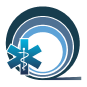
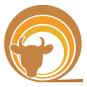
Update All

diff --git a/about.html b/about.html
@@ -3,7 +3,7 @@
 <head>
 <meta charset="UTF-8">
 <meta http-equiv="X-UA-Compatible" content="IE=edge">
-<!--<meta name="viewport" content="user-scalable=no, initial-scale=1, maximum-scale=1, minimum-scale=1, width=device-width, height=device-height, target-densitydpi=device-dpi" />-->
+
 <meta name="viewport" content="initial-scale=1 maximum-scale=1 user-scalable=0 minimal-ui" />
 <meta name="description" content="">
 <meta name="author" content="">
@@ -25,7 +25,7 @@
 </head>
 
 <body>
-<div class="loader"> <img src="img/logo_load.png" alt=""/>
+<div class="loader"> <img src="img/logo.png" alt=""/>
   <div class="spinner">
     <div class="rect1"></div>
     <div class="rect2"></div>
@@ -35,7 +35,7 @@
   </div>
 </div>
 <div class="row">
-  <h1 class="titulo"><img src="img/quickvet.png" alt="" width="60"/> QuickVet<sup>&reg;</sup></h1>
+  <h1 class="titulo"><img src="img/logo.png" alt="" width="60"/> QuickVet<sup>&reg;</sup></h1>
 </div>
 <div class="clearfix">&nbsp;</div>
 <div class="row wrapper">
@@ -55,11 +55,11 @@
   </div>
   <section id="terminos">
   <div class="clearfix">&nbsp;</div>
-    <h4 class="subtitulo">Acerca de QuickVet<sup>&reg;</sup> Premium App</h4>
+    <h4 class="subtitulo">Acerca de QuickVet<sup>&reg;</sup> App</h4>
     <div class="clearfix">&nbsp;</div>
     <p>Aplicación desarrollada para Edifarm y Compa&ntilde;&iacute;a. &copy; Todos los derechos reservados</p>
     <p><strong>Versi&oacute;n</strong></p>
-    <p>2.1.1</p>
+    <p>1.1.1</p>
   </section>
   <div class="clearfix">&nbsp;</div>
   <div class="clearfix">&nbsp;</div>
@@ -87,8 +87,8 @@
   <div id="owl-carousel" class="text-center">
     <div class="item"><a href="https://quickagro.edifarm.com.ec" class="external" target="_blank"><img src="img/quickagro.png" width="80" class="prod"/><br>
 QuickVet <sup>&reg;</sup></a></div>
-    <div class="item"><a href="https://quickvet.edifarm.com.ec" class="external" target="_blank"><img src="img/quickvet.png" width="80" class="prod"/><br>
-QuickVet <sup>&reg;</sup></a></div>
+    <div class="item"><a href="https://quickmed.edifarm.com.ec" class="external" target="_blank"><img src="img/quickmed.png" width="80" class="prod"/><br>
+QuickMed <sup>&reg;</sup></a></div>
 </div>
   
   

diff --git a/settings.html b/settings.html
@@ -3,7 +3,7 @@
 <head>
 <meta charset="UTF-8">
 <meta http-equiv="X-UA-Compatible" content="IE=edge">
-<!--<meta name="viewport" content="user-scalable=no, initial-scale=1, maximum-scale=1, minimum-scale=1, width=device-width, height=device-height, target-densitydpi=device-dpi" />-->
+
 <meta name="viewport" content="initial-scale=1 maximum-scale=1 user-scalable=0 minimal-ui" />
 <meta name="description" content="">
 <meta name="author" content="">
@@ -24,7 +24,7 @@
 </head>
 
 <body>
-<div class="loader"> <img src="img/logo_load.png" alt=""/>
+<div class="loader"> <img src="img/logo.png" alt=""/>
   <div class="spinner">
     <div class="rect1"></div>
     <div class="rect2"></div>
@@ -34,7 +34,7 @@
   </div>
 </div>
 <div class="row">
-  <h1 class="titulo"><img src="img/quickvet.png" alt="" width="60"/> QuickVet<sup>&reg;</sup></h1>
+  <h1 class="titulo"><img src="img/logo.png" alt="" width="60"/> QuickVet<sup>&reg;</sup></h1>
 </div>
 <div class="clearfix">&nbsp;</div>
 <div class="row wrapper">
@@ -49,7 +49,7 @@
       <h1><i class="fa fa-tags"></i></h1>
       <small>Productos</small></div>
       <div class="col-xs-3 item" id="btnEspecies" data-toggle="modal" data-target="#searchModal">
-      <h1><i class="fa fa-tags"></i></h1>
+      <h1><i class="fa fa-paw"></i></h1>
       <small>Especies</small></div>
   </div>
   <div class="clearfix">&nbsp;</div>

diff --git a/results.html b/results.html
@@ -3,7 +3,7 @@
 <head>
 <meta charset="UTF-8">
 <meta http-equiv="X-UA-Compatible" content="IE=edge">
-<!--<meta name="viewport" content="user-scalable=no, initial-scale=1, maximum-scale=1, minimum-scale=1, width=device-width, height=device-height, target-densitydpi=device-dpi" />-->
+
 <meta name="viewport" content="initial-scale=1 maximum-scale=1 user-scalable=0 minimal-ui" />
 <meta name="description" content="">
 <meta name="author" content="">
@@ -23,7 +23,7 @@
 </head>
 
 <body>
-<div class="loader"> <img src="img/logo_load.png" alt=""/>
+<div class="loader"> <img src="img/logo.png" alt=""/>
   <div class="spinner">
     <div class="rect1"></div>
     <div class="rect2"></div>
@@ -33,7 +33,7 @@
   </div>
 </div>
 <div class="row">
-  <h1 class="titulo"><img src="img/quickvet.png" alt="" width="60"/> QuickVet<sup>&reg;</sup></h1>
+  <h1 class="titulo"><img src="img/logo.png" alt="" width="60"/> QuickVet<sup>&reg;</sup></h1>
 </div>
 <div class="clearfix">&nbsp;</div>
 <div class="row wrapper">
@@ -48,7 +48,7 @@
       <h1><i class="fa fa-tags"></i></h1>
       <small>Productos</small></div>
       <div class="col-xs-3 item" id="btnEspecies" data-toggle="modal" data-target="#searchModal">
-      <h1><i class="fa fa-tags"></i></h1>
+      <h1><i class="fa fa-paw"></i></h1>
       <small>Especies</small></div>
   </div>
   <section id="resultados">

diff --git a/terms.html b/terms.html
@@ -3,7 +3,7 @@
 <head>
 <meta charset="UTF-8">
 <meta http-equiv="X-UA-Compatible" content="IE=edge">
-<!--<meta name="viewport" content="user-scalable=no, initial-scale=1, maximum-scale=1, minimum-scale=1, width=device-width, height=device-height, target-densitydpi=device-dpi" />-->
+
 <meta name="viewport" content="initial-scale=1 maximum-scale=1 user-scalable=0 minimal-ui" />
 <meta name="description" content="">
 <meta name="author" content="">
@@ -23,7 +23,7 @@
 </head>
 
 <body>
-<!-- <div class="loader"> <img src="img/logo_load.png" alt=""/>
+<!-- <div class="loader"> <img src="img/logo.png" alt=""/>
   <div class="spinner">
     <div class="rect1"></div>
     <div class="rect2"></div>
@@ -35,7 +35,7 @@
 
  -->
  <div class="row">
-  <h1 class="titulo"><img src="img/quickvet.png" alt="" width="60"/> QuickVet<sup>&reg;</sup></h1>
+  <h1 class="titulo"><img src="img/logo.png" alt="" width="60"/> QuickVet<sup>&reg;</sup></h1>
 </div>
 <div class="clearfix">&nbsp;</div>
 <div class="row wrapper">
@@ -50,7 +50,7 @@
       <h1><i class="fa fa-tags"></i></h1>
       <small>Productos</small></div>
       <div class="col-xs-3 item" id="btnEspecies" data-toggle="modal" data-target="#searchModal">
-      <h1><i class="fa fa-tags"></i></h1>
+      <h1><i class="fa fa-paw"></i></h1>
       <small>Especies</small></div>
   </div>
   <section id="terminos">

diff --git a/info.html b/info.html
@@ -3,7 +3,7 @@
 <head>
 <meta charset="UTF-8">
 <meta http-equiv="X-UA-Compatible" content="IE=edge">
-<!--<meta name="viewport" content="user-scalable=no, initial-scale=1, maximum-scale=1, minimum-scale=1, width=device-width, height=device-height, target-densitydpi=device-dpi" />-->
+
 <meta name="viewport" content="initial-scale=1 maximum-scale=1 user-scalable=0 minimal-ui" />
 <meta name="description" content="">
 <meta name="author" content="">
@@ -23,7 +23,7 @@
 </head>
 
 <body>
-<div class="loader"> <img src="img/logo_load.png" alt=""/>
+<div class="loader"> <img src="img/logo.png" alt=""/>
   <div class="spinner">
     <div class="rect1"></div>
     <div class="rect2"></div>
@@ -33,7 +33,7 @@
   </div>
 </div>
 <div class="row">
-  <h1 class="titulo"><img src="img/quickvet.png" alt="" width="60"/> QuickVet<sup>&reg;</sup></h1>
+  <h1 class="titulo"><img src="img/logo.png" alt="" width="60"/> QuickVet<sup>&reg;</sup></h1>
 </div>
 <div class="clearfix">&nbsp;</div>
 <div class="row wrapper">
@@ -406,7 +406,7 @@
         
 		});
 	/*Analytics*/
-	//window.ga.trackView('Info?doc='+doc);
+	window.ga.trackView('Info?doc='+doc);
 			
 	
 	</script>

diff --git a/home.html b/home.html
@@ -3,7 +3,7 @@
 <head>
 <meta charset="UTF-8">
 <meta http-equiv="X-UA-Compatible" content="IE=edge">
-<!--<meta name="viewport" content="user-scalable=no, initial-scale=1, maximum-scale=1, minimum-scale=1, width=device-width, height=device-height, target-densitydpi=device-dpi" />-->
+
 <meta name="viewport" content="initial-scale=1 maximum-scale=1 user-scalable=0 minimal-ui" />
 <meta name="description" content="">
 <meta name="author" content="">
@@ -24,7 +24,7 @@
 </head>
 
 <body>
-<div class="loader"> <img src="img/logo_load.png" alt=""/>
+<div class="loader"> <img src="img/logo.png" alt=""/>
   <div class="spinner">
     <div class="rect1"></div>
     <div class="rect2"></div>
@@ -34,7 +34,7 @@
   </div>
 </div>
 <div class="row">
-  <h1 class="titulo"><img src="img/quickvet.png" alt="" width="60"/> QuickVet<sup>&reg;</sup></h1>
+  <h1 class="titulo"><img src="img/logo.png" alt="" width="60"/> QuickVet<sup>&reg;</sup></h1>
 </div>
 <div class="clearfix">&nbsp;</div>
 <div class="row wrapper">
@@ -223,6 +223,7 @@ function onDeviceReady() {
 			  });
 }
 	onDeviceReady();
+	
 </script>
 
 

diff --git a/index.html b/index.html
@@ -3,7 +3,7 @@
 <head>
 	<meta charset="UTF-8">
     <meta http-equiv="X-UA-Compatible" content="IE=edge">
-    <!--<meta name="viewport" content="user-scalable=no, initial-scale=1, maximum-scale=1, minimum-scale=1, width=device-width, height=device-height, target-densitydpi=device-dpi" />-->
+    
     <meta name="viewport" content="initial-scale=1 maximum-scale=1 user-scalable=0 minimal-ui" />
     <meta name="description" content="">
     <meta name="author" content="">
@@ -35,7 +35,7 @@
 
 
 <div class="row">
-<h1 class="titulo"><img src="img/quickvet.png" alt="" width="60"/> QuickVet<sup>&reg;</sup></h1>
+<h1 class="titulo"><img src="img/logo.png" alt="" width="60"/> QuickVet<sup>&reg;</sup></h1>
 </div>
 
 <div class="wrapper"> 
@@ -210,7 +210,7 @@
 		
 		
 	/*Analytics*/
-	//window.ga.trackView('Intro');
+	window.ga.trackView('Intro');
     });
     	
 		document.addEventListener("deviceready", onDeviceReady, false);
@@ -255,6 +255,7 @@ function onDeviceReady() {
 		//alert('final'+device.uuid);
 	
 }
+	
 		
     </script>
     

diff --git a/newuser.html b/newuser.html
@@ -3,7 +3,7 @@
 <head>
 <meta charset="UTF-8">
 <meta http-equiv="X-UA-Compatible" content="IE=edge">
-<!--<meta name="viewport" content="user-scalable=no, initial-scale=1, maximum-scale=1, minimum-scale=1, width=device-width, height=device-height, target-densitydpi=device-dpi" />-->
+
 <meta name="viewport" content="initial-scale=1 maximum-scale=1 user-scalable=0 minimal-ui" />
 <meta name="description" content="">
 <meta name="author" content="">
@@ -29,7 +29,7 @@
 <body>
 
 <div class="loader">
-<img src="img/logo_load.png" alt=""/>
+<img src="img/logo.png" alt=""/>
 <div class="spinner">
   <div class="rect1"></div>
   <div class="rect2"></div>
@@ -40,7 +40,7 @@
 </div>
 
 <div class="row">
-  <h1 class="titulo"><img src="img/quickvet.png" alt="" width="60"/> QuickVet<sup>&reg;</sup></h1>
+  <h1 class="titulo"><img src="img/logo.png" alt="" width="60"/> QuickVet<sup>&reg;</sup></h1>
 </div>
 <div class="clearfix">&nbsp;</div>
 <div class="row wrapper">

diff --git a/css/style.css b/css/style.css
@@ -111,7 +111,7 @@ h3, h4{
 .image img {
 	margin: auto;
 	display: block;
-	max-height: 250px;
+	max-height: 150px;
 }
 .image .imgprod {
 	padding: 1em;
